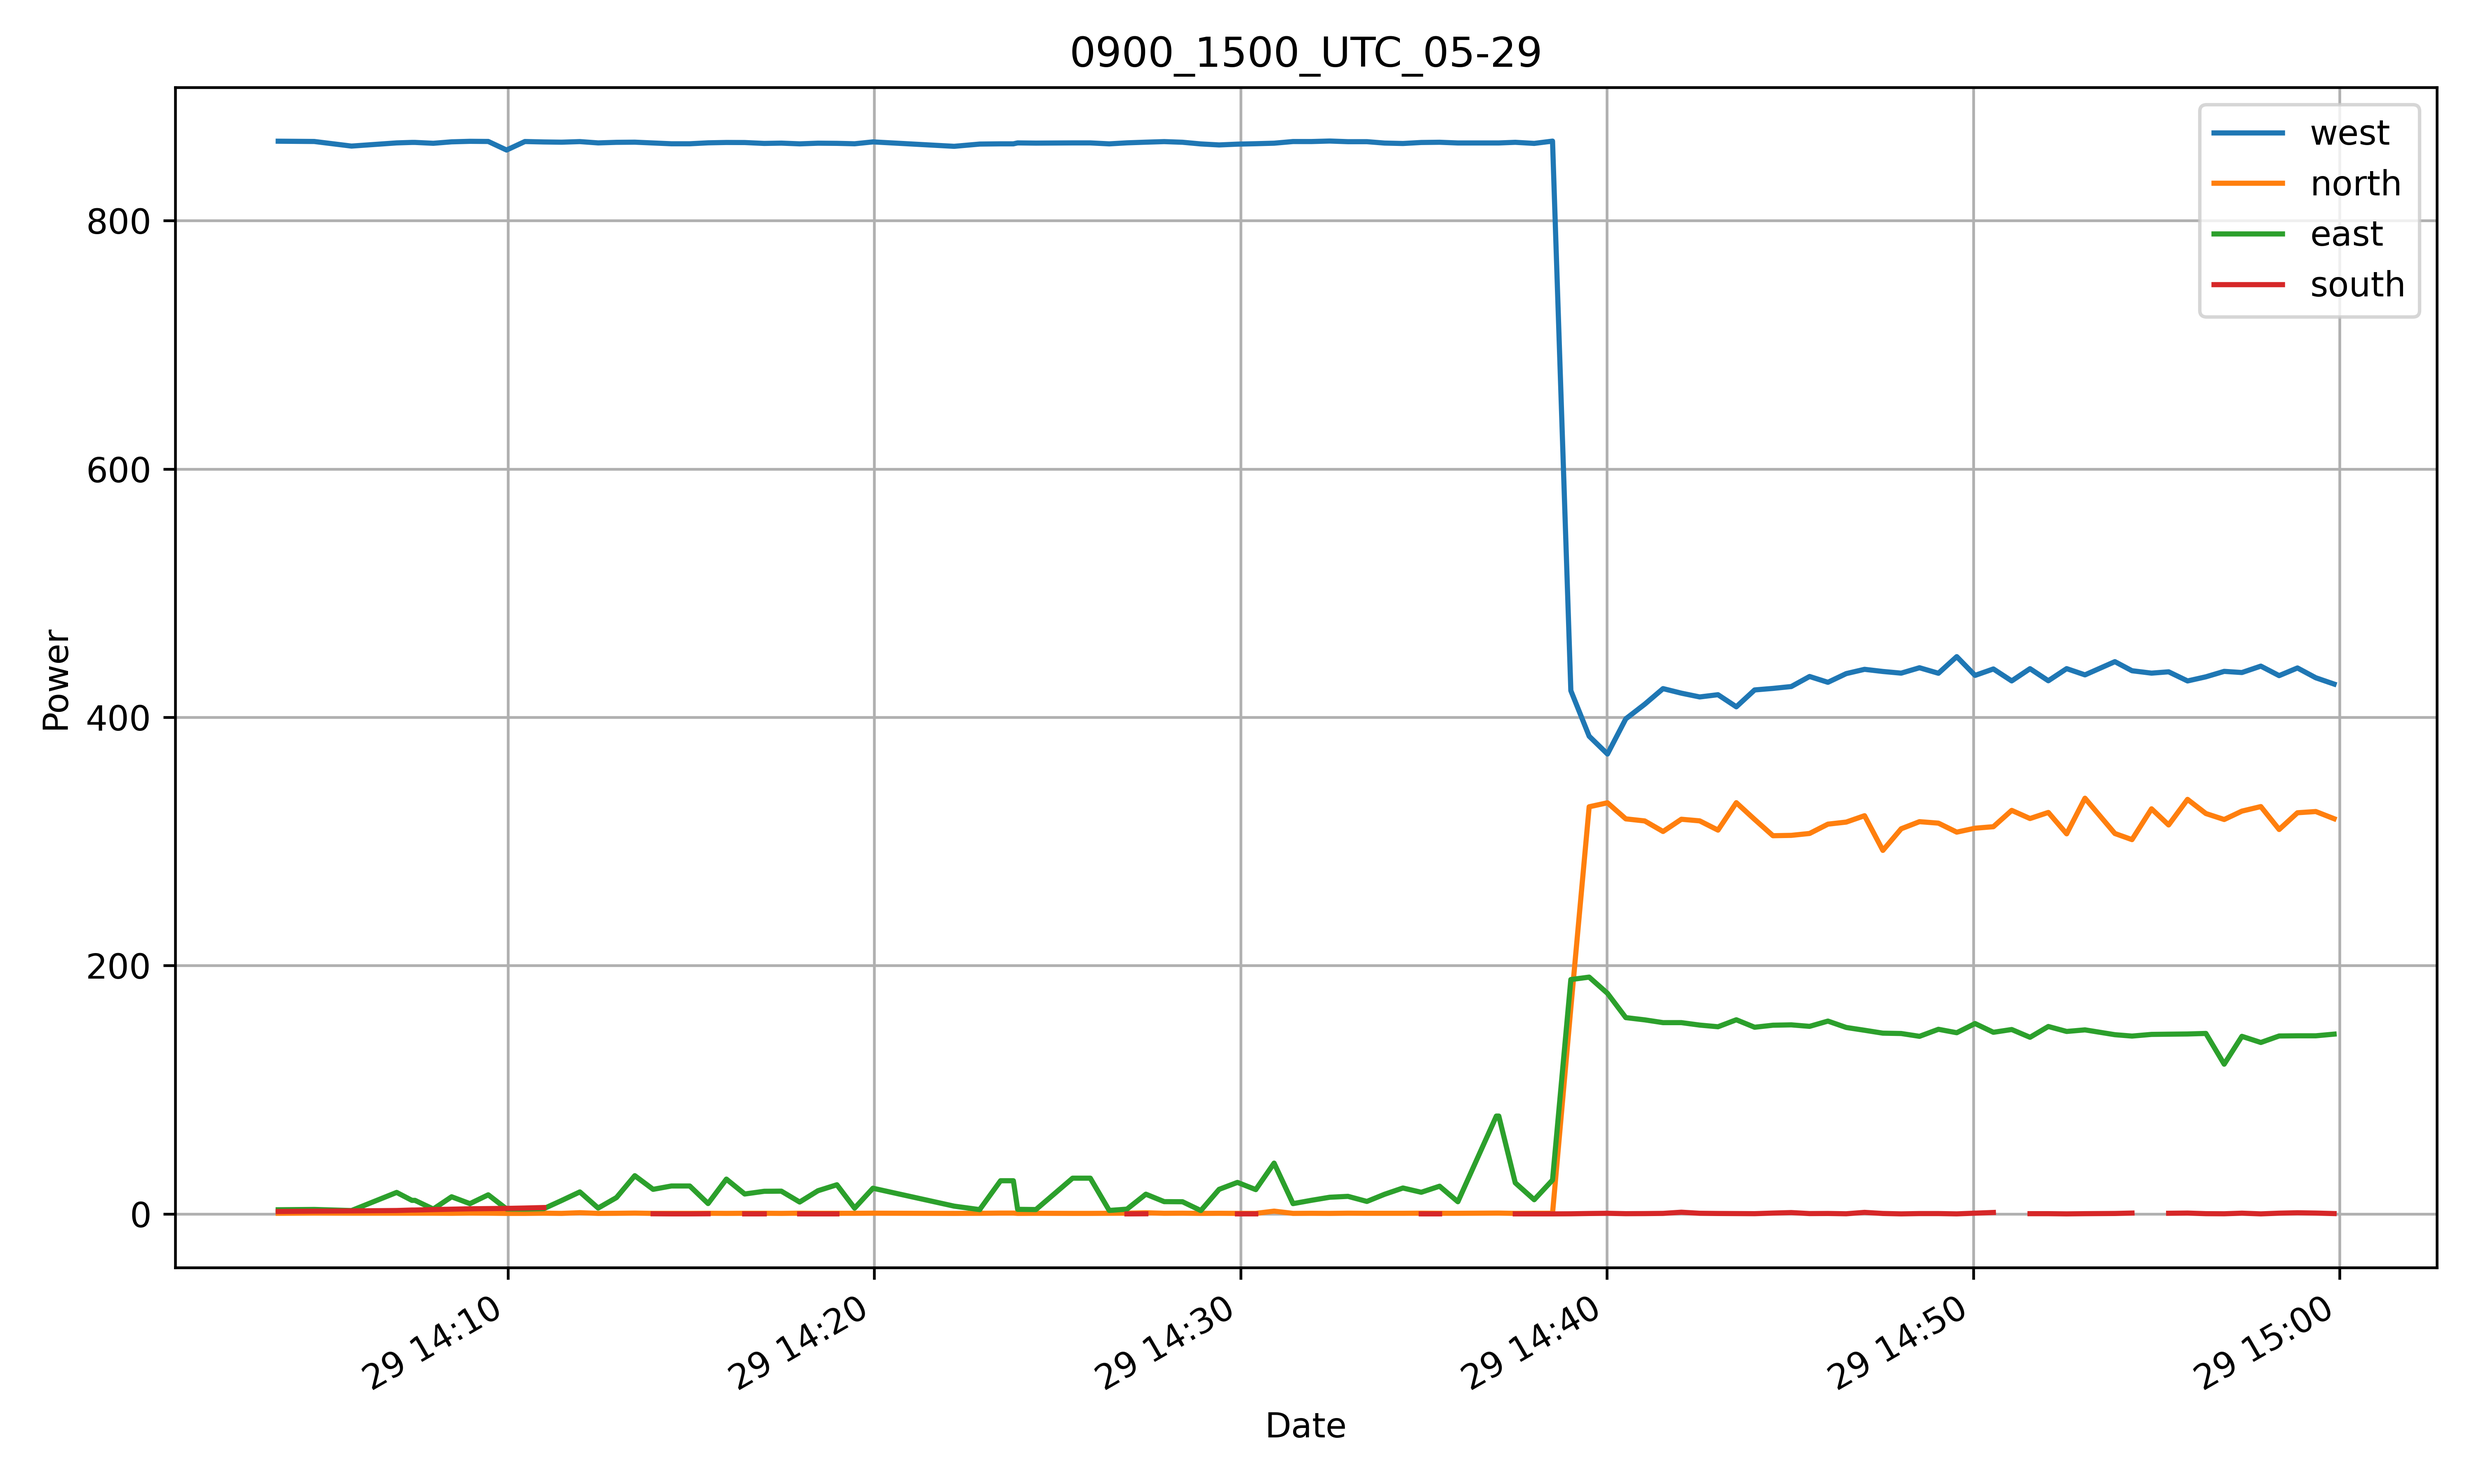
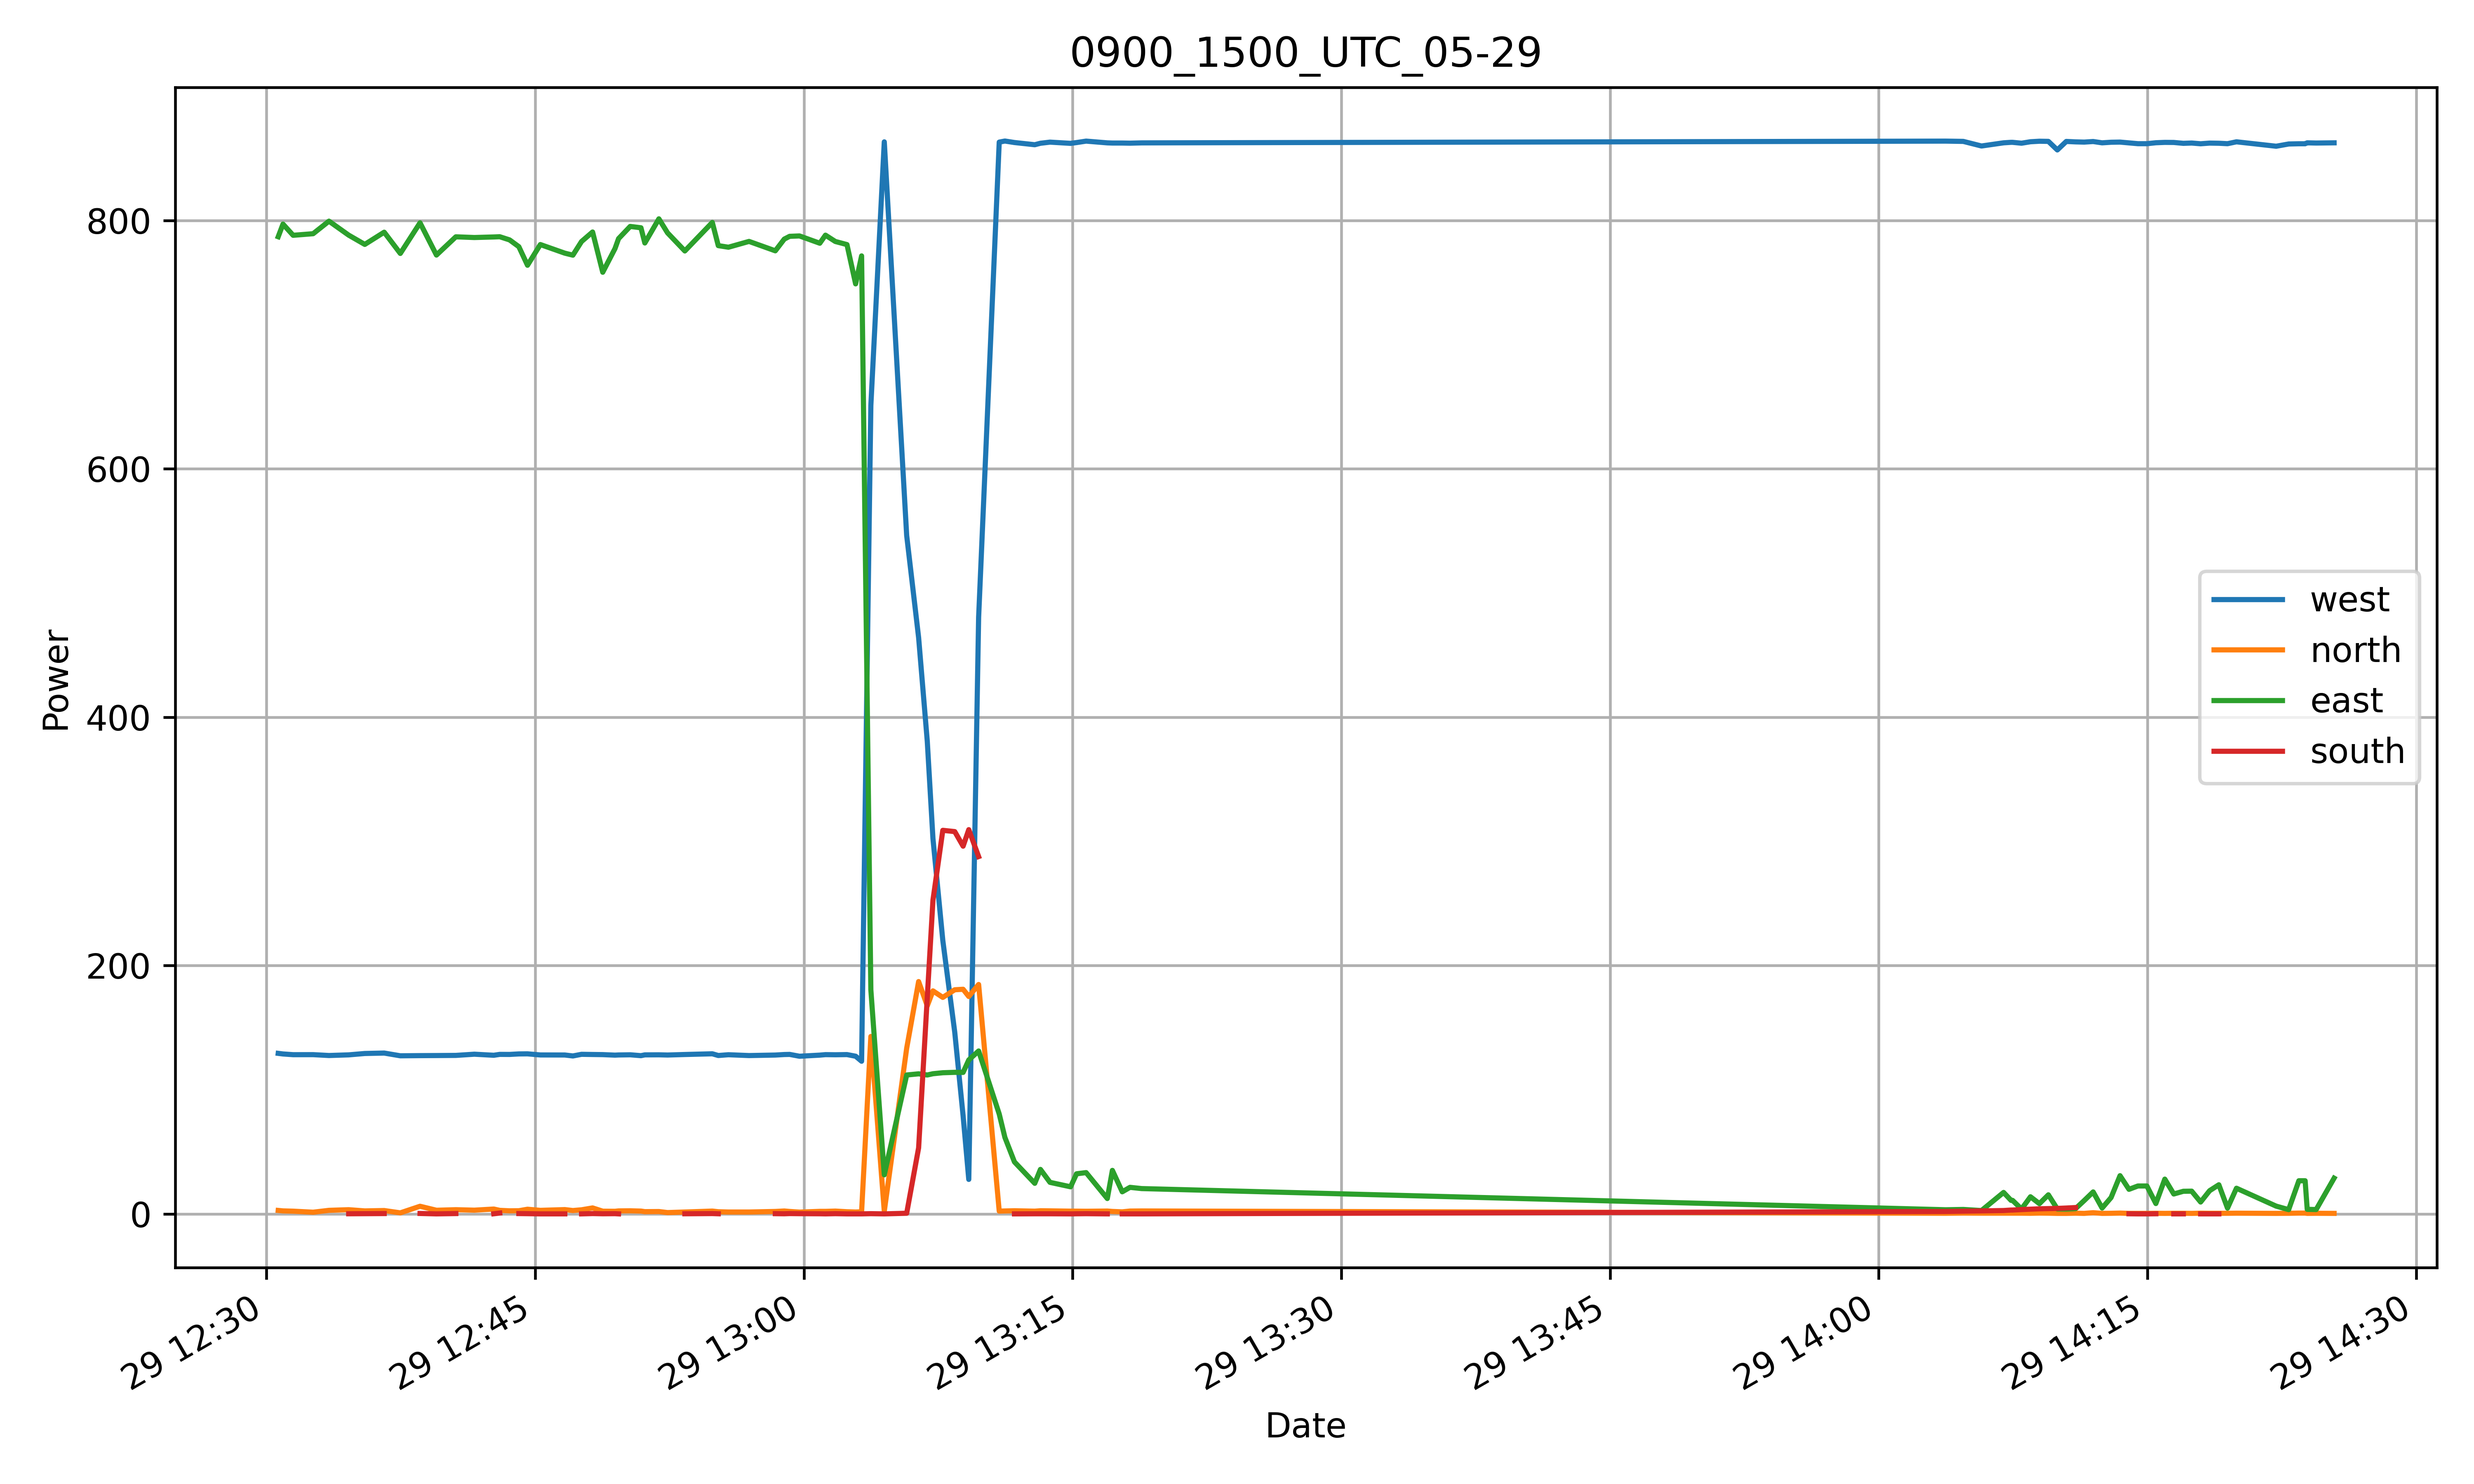
Updated power_plots to take in last x time

diff --git a/Flight_Operations/power_plots.py b/Flight_Operations/power_plots.py
@@ -1,11 +1,34 @@
 import pandas as pd
 import matplotlib.pyplot as plt
-from datetime import datetime, time
+from datetime import datetime, timedelta, time
 
 
+# Functions to filter out a time range
+def filter_time_range(df, start_time, end_time):
+    # Convert datetime column to datetime object with correct format
+    df['Date'] = pd.to_datetime(df['Date'], format='%Y-%m-%d %H:%M:%S')
+    
 
+    # Extract the time part only
+    #df['time'] = df['Date'].dt.time
+
+    # Filter the dataframe for the specified time range
+    df_filtered = df[(df['Date'] >= start_time) & (df['Date'] <= end_time)]
+    
+    return df_filtered
+
+def set_time_range(delta):
+
+    # Get the current time
+    end_time = pd.Timestamp.now()
+
+    # Filter for time delta period you want
+    start_time = end_time - timedelta(hours=delta)
+    
+    return start_time, end_time
+
+# Setting the parent directory of the directory holding the csv files
 data_dir = "0900_1500_UTC_05-29"
-
 
 # Read the csv files
 west = pd.read_csv(data_dir + "/west_power.csv")
@@ -13,58 +36,6 @@ north = pd.read_csv(data_dir + "/north_power.csv")
 east = pd.read_csv(data_dir + "/east_power.csv")
 south = pd.read_csv(data_dir + "/south_power.csv")
 
-
-# # function to convert time format
-# def convert_to_time(df):
-#     df['Date'] = pd.to_datetime(df['Date'], format='%Y-%m-%d %H:%M:%S') # data I get i sonly for last 6 hours, eliminateing the day
-
-#     return  df[df['Date']]
-
-
-# # convert date to time
-# west = convert_to_time(west)
-# north = convert_to_time(north)
-# east = convert_to_time(east)
-# south = convert_to_time(south)
-
-# xmin
-#xmin = '2024-05-28 13:00:00'
-
-
-
-def filter_time_range(df, start_time, end_time):
-    # Convert datetime column to datetime object with correct format
-    df['Date'] = pd.to_datetime(df['Date'], format='%Y-%m-%d %H:%M:%S')
-    
-
-    # Extract the time part only
-    df['time'] = df['Date'].dt.time
-
-    # Filter the dataframe for the specified time range
-    df_filtered = df[(df['time'] >= start_time) & (df['time'] <= end_time)]
-    
-    return df_filtered
-
-    # # Get the current datetime
-    # now = pd.to_datetime('now')
-    
-    # # Filter the dataframe for the last 2 hours
-    # last_2_hours = now - timedelta(hours=2)
-    # df_filtered = df[df['datetime'] >= last_2_hours]
-    
-    # # Extract the time part only
-    # df_filtered['time'] = df_filtered['datetime'].dt.time
-    # return df_filtered
-
-def set_time_range(delta):
-
-    # Get the current time
-    start_time = pd.to_datetime('now')
-
-    # Filter for time delta period you want
-    end_time = start_time - timedelta(delta)
-    
-    return (start_time, end_time)
 
 start_time, end_time = set_time_range(2)
 
@@ -91,21 +62,8 @@ ax.set_title(data_dir)
 ax.set_xlabel('Date')
 ax.set_ylabel('Power')
 ax.grid(True)
-#plt.xlim(left=xmin)
 plt.legend()
 plt.tight_layout()
 
 plt.savefig("power_" + data_dir + ".png", dpi=600)
-plt.show()
-
-
-# def filter_last_2_hours(df):
-#     # Convert date column to datetime
-#     df['date'] = pd.to_datetime(df['date'], format='%m/%d/%y %H:%M')
-    
-#     # Get the current datetime
-#     now = pd.to_datetime('now')
-    
-#     # Filter the dataframe for the last 2 hours
-#     last_2_hours = now - timedelta(hours=2)
-#     return df[df['date'] >= last_2_hours]
+# plt.show()
